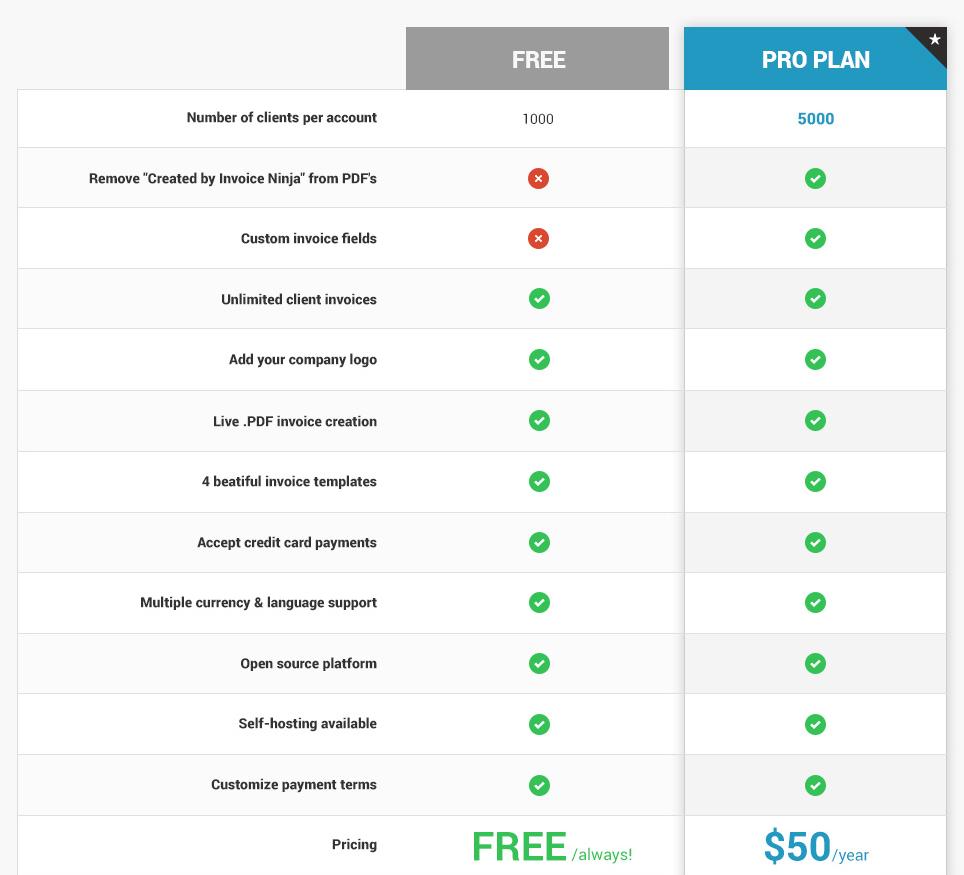
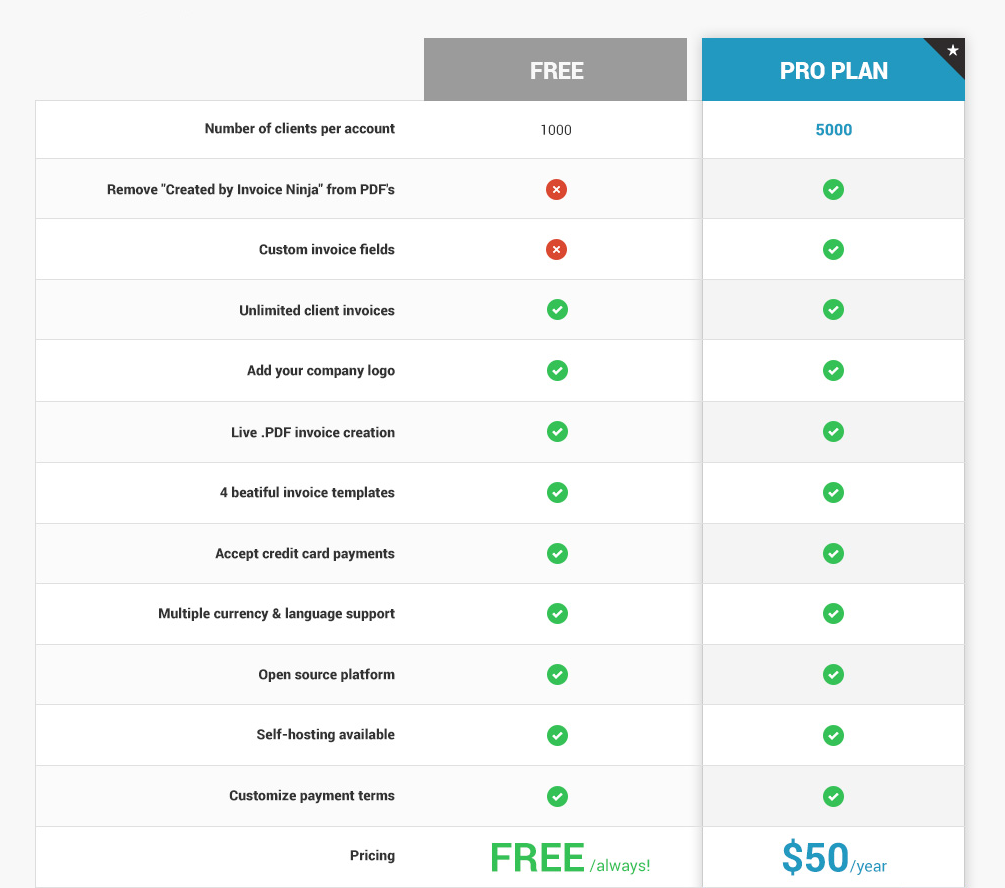
Bug fixes

diff --git a/public/js/script.js b/public/js/script.js
@@ -721,10 +721,12 @@ function GetReportTemplate1(doc, invoice, layout, checkMath)
     SetPdfColor('Black',doc); //set black color
     doc.setFontSize(9);
 
-    var detailsHeight = displayInvoice(doc, invoice, 50, 170, layout);
+    var invoiceHeight = displayInvoice(doc, invoice, 50, 170, layout);
+    var clientHeight = displayClient(doc, invoice, 220, 170, layout);
+    var detailsHeight = Math.max(invoiceHeight, clientHeight);
     layout.tableTop = Math.max(layout.tableTop, layout.headerTop + detailsHeight + (3 * layout.rowHeight));
 
-    displayClient(doc, invoice, 220, 170, layout);
+    
 
     doc.setLineWidth(0.3);        
     doc.setDrawColor(200,200,200);
@@ -1282,7 +1284,7 @@ function displayClient(doc, invoice, x, y, layout) {
     client.contacts[0].email
   ];
 
-  displayGrid(doc, invoice, data, x, y, layout, true);
+  return displayGrid(doc, invoice, data, x, y, layout, true);
 }
 
 function displayInvoice(doc, invoice, x, y, layout, rightAlignX) {

diff --git a/app/views/public/plans.blade.php b/app/views/public/plans.blade.php
@@ -2,6 +2,12 @@
 
 @section('content')
 
+  <style>
+  section.body {
+    background-color: #f8f8f8 !important;
+  }
+  </style>
+
   <section class="hero background hero3" data-speed="2" data-type="background">
   <div class="caption-side"></div>
   <div class="container">
@@ -15,25 +21,28 @@
       </div>
     </section>
 
- <section class="about center">
+ <section class="center" style="background-color:#f8f8f8">
   <div class="container">
     <div class="row">
       <div class="col-md-8 col-md-offset-2">
+        &nbsp;<p/>
         <h2>Go Pro to Unlock Premium Invoice Ninja Features</h2>
         <p>We believe that the free version of Invoice Ninja is a truly awesome product loaded 
           with the key features you need to bill your clients electronically. But for those who 
           crave still more Ninja awesomeness, we've unmasked the Invoice Ninja Pro plan, which 
           offers more versatility, power and customization options for just $50 per year. </p>
           <br/>&nbsp;<br/>
-          <img src="{{ asset('images/pro-plan-chart.png') }}"/>
-        
       </div>
     </div>
   </div>
 </section>
 
+<div style="background-color:#f8f8f8">
+  <center><img src="{{ asset('images/pro-plan-chart.png') }}"/></center>
+</div>      
 
-<section class="upper-footer white-bg">
+
+<section style="background-color:#f8f8f8;padding-top:80px;padding-bottom:80px;">
  <div class="container">
   <div class="row">
     <div class="col-md-3 center-block">

diff --git a/app/lang/en/texts.php b/app/lang/en/texts.php
@@ -260,7 +260,7 @@ return array(
   'email_salutation' => 'Dear :name,',
   'email_signature' => 'Regards,',
   'email_from' => 'The InvoiceNinja Team',
-  'user_email_footer' => 'To adjust your email notification settings please visit http://www.invoiceninja.com/company/notifications',
+  'user_email_footer' => 'To adjust your email notification settings please visit http://' . $_SERVER['SERVER_NAME'] . '/company/notifications',
   'invoice_link_message' => 'To view your client invoice click the link below:',
   'notification_paid_subject' => 'Invoice :invoice was paid by :client',
   'notification_sent_subject' => 'Invoice :invoice was sent to :client',

diff --git a/app/views/header.blade.php b/app/views/header.blade.php
@@ -333,7 +333,7 @@ Want something changed? We're {{ link_to('https://github.com/hillelcoren/invoice
 
 @if (Auth::check() && !Auth::user()->isPro())
   <div class="modal fade" id="proPlanModal" tabindex="-1" role="dialog" aria-labelledby="proPlanModalLabel" aria-hidden="true">
-    <div class="modal-dialog" style="min-width:1000px">
+    <div class="modal-dialog" style="min-width:1040px">
       <div class="modal-content">
         <div class="modal-header">
           <button type="button" class="close" data-dismiss="modal" aria-hidden="true">&times;</button>
